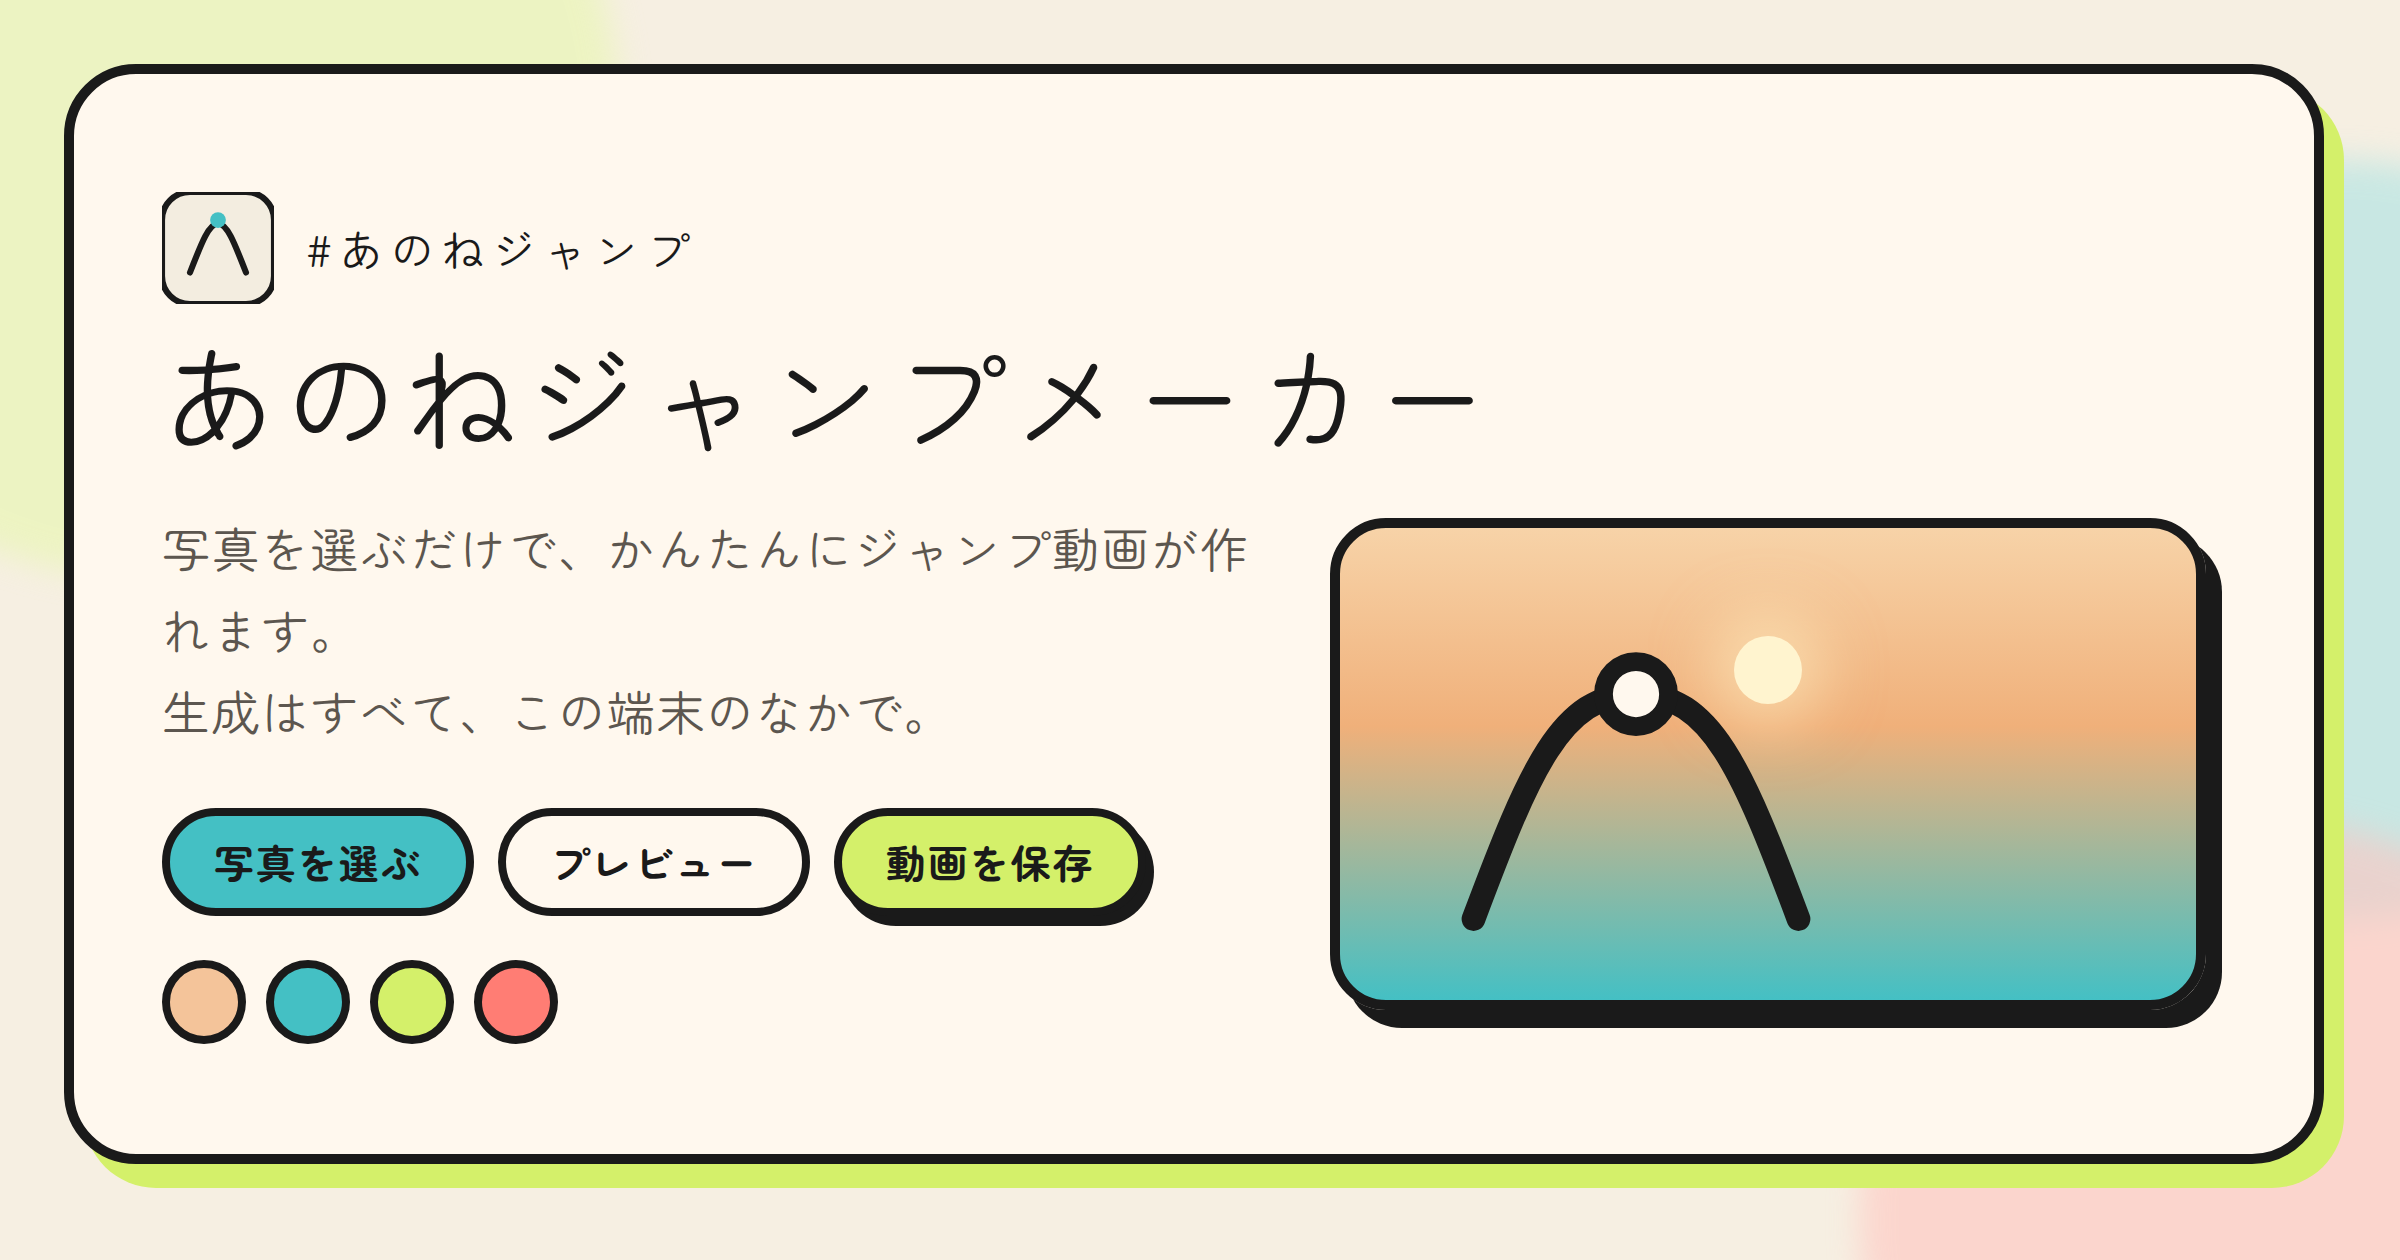
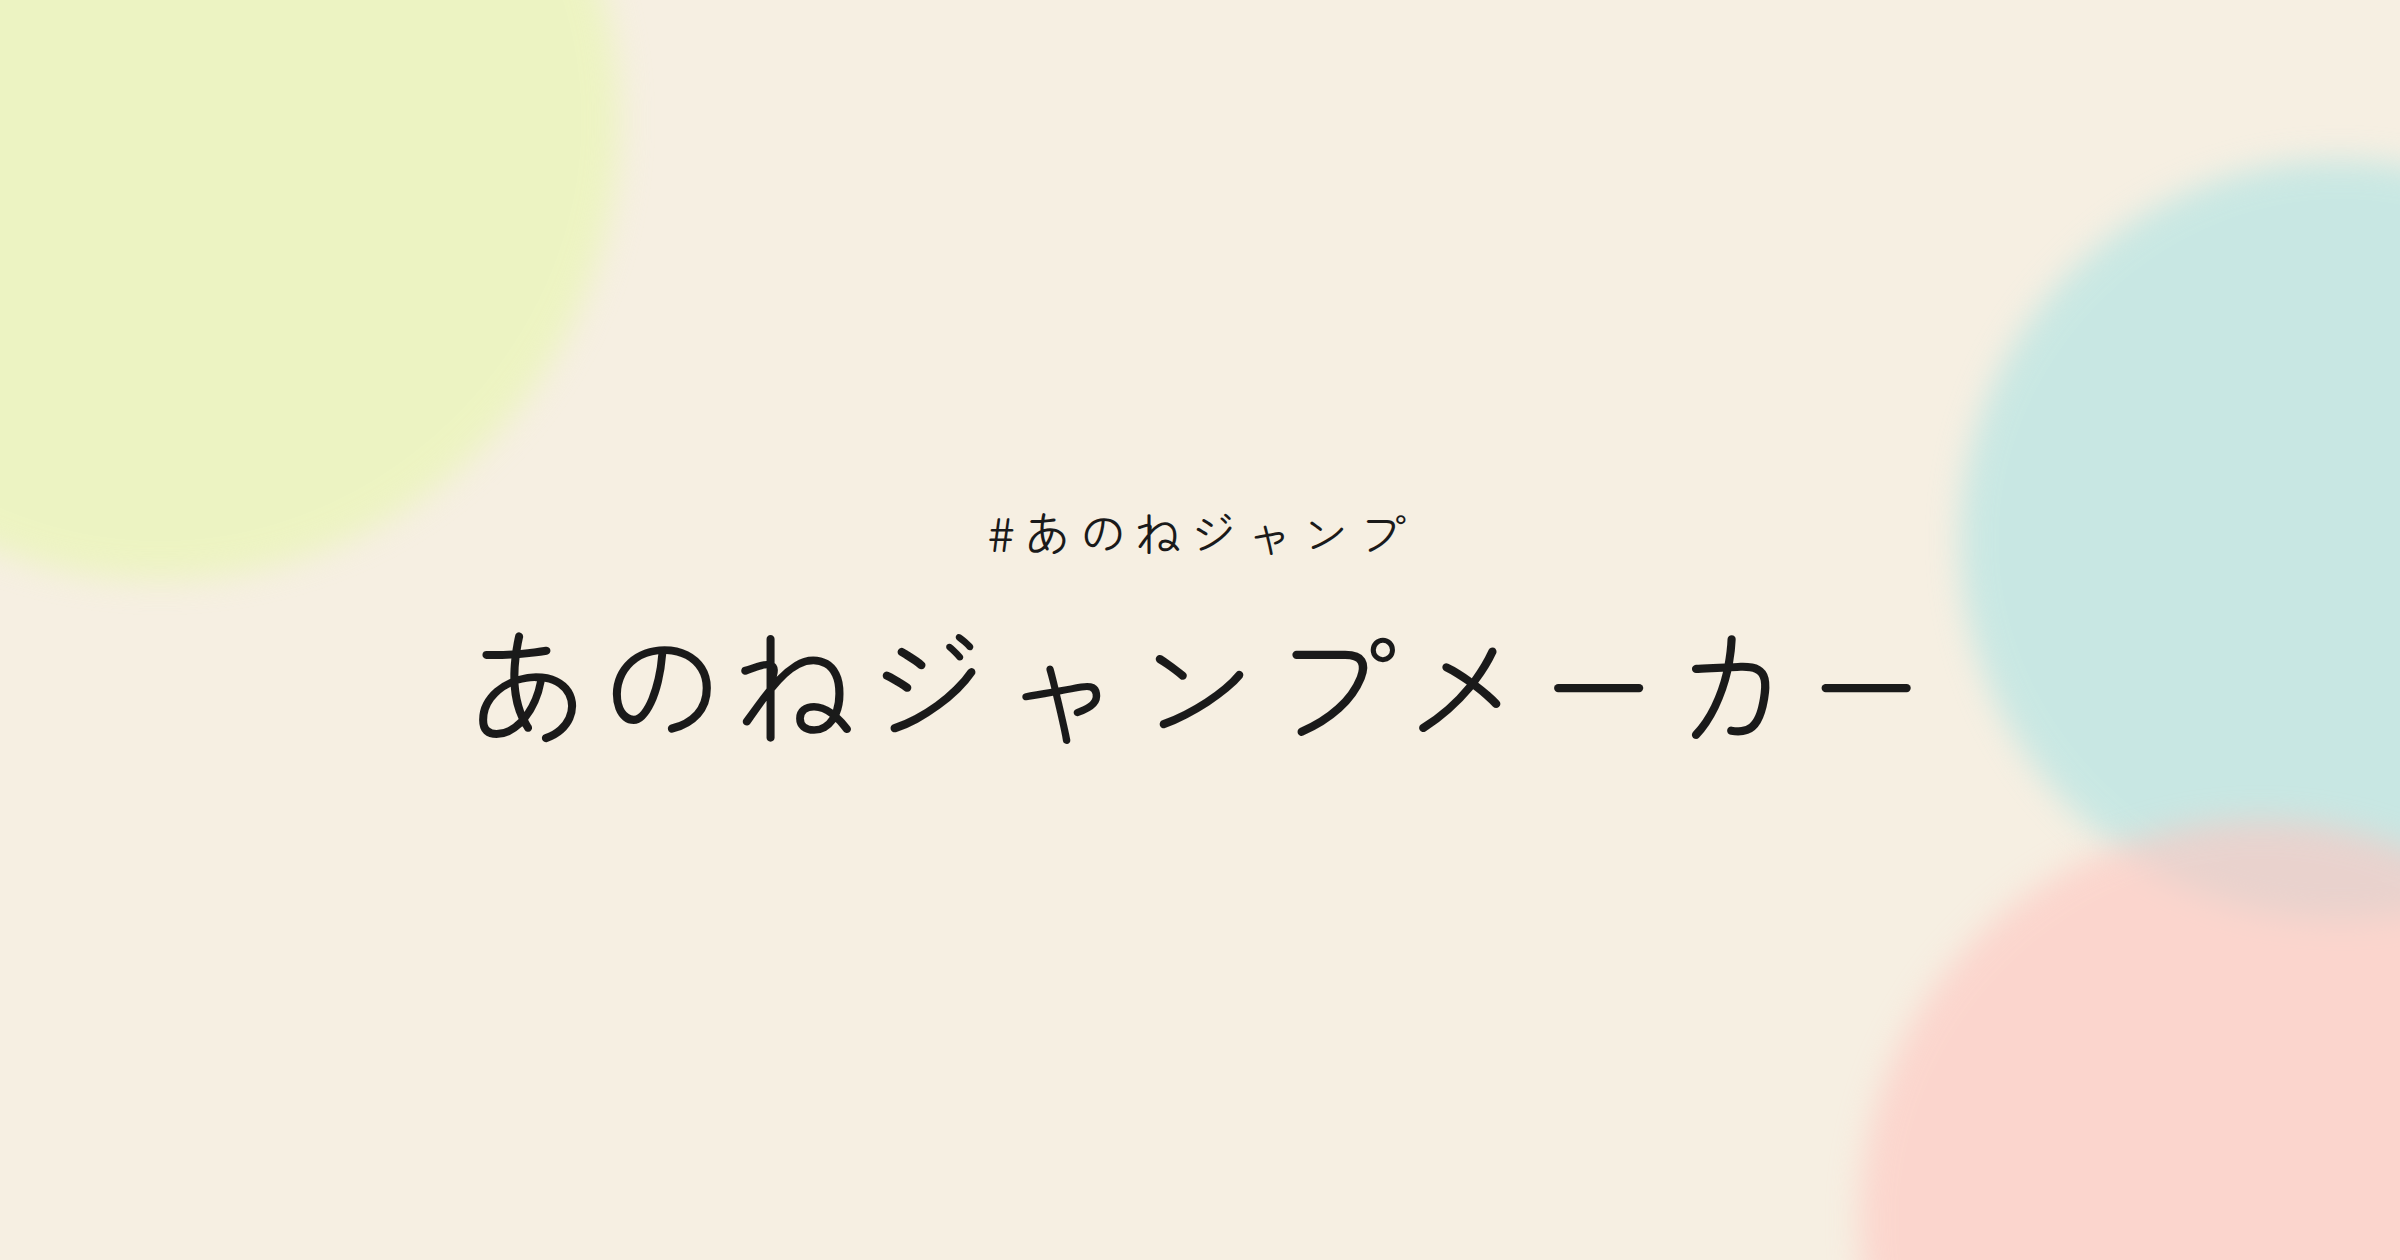
OGPはサイト名だけにする
ボタンやプレビュー枠を外し、前と同じくハッシュタグとタイトルだけを置く。

diff --git a/scripts/og.html b/scripts/og.html
@@ -13,12 +13,9 @@
       :root {
         --paper: #f6efe2;
         --ink: #1a1a1a;
-        --mute: #5c564f;
         --teal: #44c0c4;
         --lime: #d4f06a;
         --coral: #ff7d74;
-        --peach: #f4c49a;
-        --card: #fff8ee;
       }
 
       * {
@@ -79,164 +76,31 @@
         right: -130px;
       }
 
-      .frame {
+      .hero {
         position: relative;
         z-index: 1;
         width: 1200px;
         height: 630px;
         display: flex;
-        align-items: center;
-        justify-content: center;
-        padding: 32px 38px 48px 32px;
-      }
-
-      .card {
-        width: 100%;
-        height: 100%;
-        background: var(--card);
-        border: 5px solid var(--ink);
-        border-radius: 36px;
-        box-shadow: 10px 12px 0 var(--lime);
-        padding: 36px 44px 32px;
-        display: flex;
         flex-direction: column;
-        justify-content: center;
-      }
-
-      .top {
-        display: flex;
         align-items: center;
-        gap: 16px;
-        margin-bottom: 8px;
-      }
-
-      .mark {
-        width: 56px;
-        height: 56px;
-        flex: 0 0 auto;
+        justify-content: center;
+        text-align: center;
+        padding: 48px;
       }
 
       .eyebrow {
-        font-size: 22px;
+        font-size: 24px;
         letter-spacing: 0.16em;
+        margin-bottom: 16px;
       }
 
       h1 {
-        font-size: 58px;
+        font-size: 64px;
         font-weight: 400;
         letter-spacing: 0.045em;
-        line-height: 1.2;
+        line-height: 1.3;
         white-space: nowrap;
-        margin: 2px 0 22px;
-      }
-
-      .row {
-        display: grid;
-        grid-template-columns: 1fr 448px;
-        gap: 32px;
-        align-items: center;
-      }
-
-      .lede {
-        color: var(--mute);
-        font-size: 24px;
-        line-height: 1.7;
-        letter-spacing: 0.03em;
-      }
-
-      .actions {
-        display: flex;
-        flex-wrap: wrap;
-        gap: 12px;
-        margin-top: 28px;
-      }
-
-      .pill {
-        display: inline-flex;
-        align-items: center;
-        justify-content: center;
-        min-height: 54px;
-        padding: 0 22px;
-        border: 4px solid var(--ink);
-        border-radius: 999px;
-        font-size: 20px;
-        font-weight: 700;
-        letter-spacing: 0.04em;
-        background: var(--card);
-        color: var(--ink);
-      }
-
-      .pill-teal {
-        background: var(--teal);
-      }
-
-      .pill-lime {
-        background: var(--lime);
-        box-shadow: 4px 5px 0 var(--ink);
-      }
-
-      .loop-wrap {
-        padding: 0 10px 12px 0;
-      }
-
-      .loop {
-        width: 438px;
-        height: 246px;
-        border: 5px solid var(--ink);
-        border-radius: 28px;
-        box-shadow: 8px 9px 0 var(--ink);
-        background: linear-gradient(180deg, #f7d3a8 0%, #f0b07a 42%, #44c0c4 100%);
-        position: relative;
-        overflow: hidden;
-      }
-
-      .sun {
-        position: absolute;
-        width: 34px;
-        height: 34px;
-        border-radius: 999px;
-        background: #fff4cf;
-        top: 54px;
-        left: 50%;
-        transform: translateX(-50%);
-        box-shadow: 0 0 28px 12px rgba(255, 244, 200, 0.5);
-      }
-
-      .jump {
-        position: absolute;
-        left: 48px;
-        right: 48px;
-        top: 58px;
-        height: 150px;
-      }
-
-      .thumbs {
-        display: flex;
-        gap: 10px;
-        margin-top: 22px;
-      }
-
-      .thumb {
-        width: 42px;
-        height: 42px;
-        border-radius: 999px;
-        border: 4px solid var(--ink);
-      }
-
-      .thumb-a {
-        background: var(--peach);
-      }
-
-      .thumb-b {
-        background: var(--teal);
-      }
-
-      .thumb-c {
-        background: var(--lime);
-      }
-
-      .thumb-d {
-        background: var(--coral);
       }
     </style>
   </head>
@@ -246,58 +110,9 @@
       <span class="blob blob-teal"></span>
       <span class="blob blob-coral"></span>
     </div>
-    <div class="frame">
-      <section class="card">
-        <div class="top">
-          <svg class="mark" viewBox="0 0 64 64" aria-hidden="true">
-            <rect width="64" height="64" rx="16" fill="#f3ede0" stroke="#1a1a1a" stroke-width="3.5" />
-            <path
-              d="M16 46c7-18 11-28 16-28s9 10 16 28"
-              fill="none"
-              stroke="#1a1a1a"
-              stroke-width="3.5"
-              stroke-linecap="round"
-            />
-            <circle cx="32" cy="16" r="4.5" fill="#44c0c4" />
-          </svg>
-          <p class="eyebrow">#あのねジャンプ</p>
-        </div>
-        <h1>あのねジャンプメーカー</h1>
-        <div class="row">
-          <div>
-            <p class="lede">
-              写真を選ぶだけで、かんたんにジャンプ動画が作れます。<br />
-              生成はすべて、この端末のなかで。
-            </p>
-            <div class="actions">
-              <span class="pill pill-teal">写真を選ぶ</span>
-              <span class="pill">プレビュー</span>
-              <span class="pill pill-lime">動画を保存</span>
-            </div>
-            <div class="thumbs" aria-hidden="true">
-              <span class="thumb thumb-a"></span>
-              <span class="thumb thumb-b"></span>
-              <span class="thumb thumb-c"></span>
-              <span class="thumb thumb-d"></span>
-            </div>
-          </div>
-          <div class="loop-wrap">
-            <div class="loop" aria-hidden="true">
-              <div class="sun"></div>
-              <svg class="jump" viewBox="0 0 64 48">
-                <path
-                  d="M6 44c9-24 14-36 26-36s17 12 26 36"
-                  fill="none"
-                  stroke="#1a1a1a"
-                  stroke-width="3.8"
-                  stroke-linecap="round"
-                />
-                <circle cx="32" cy="8" r="5.2" fill="#fff8ee" stroke="#1a1a1a" stroke-width="3" />
-              </svg>
-            </div>
-          </div>
-        </div>
-      </section>
+    <div class="hero">
+      <p class="eyebrow">#あのねジャンプ</p>
+      <h1>あのねジャンプメーカー</h1>
     </div>
   </body>
 </html>
